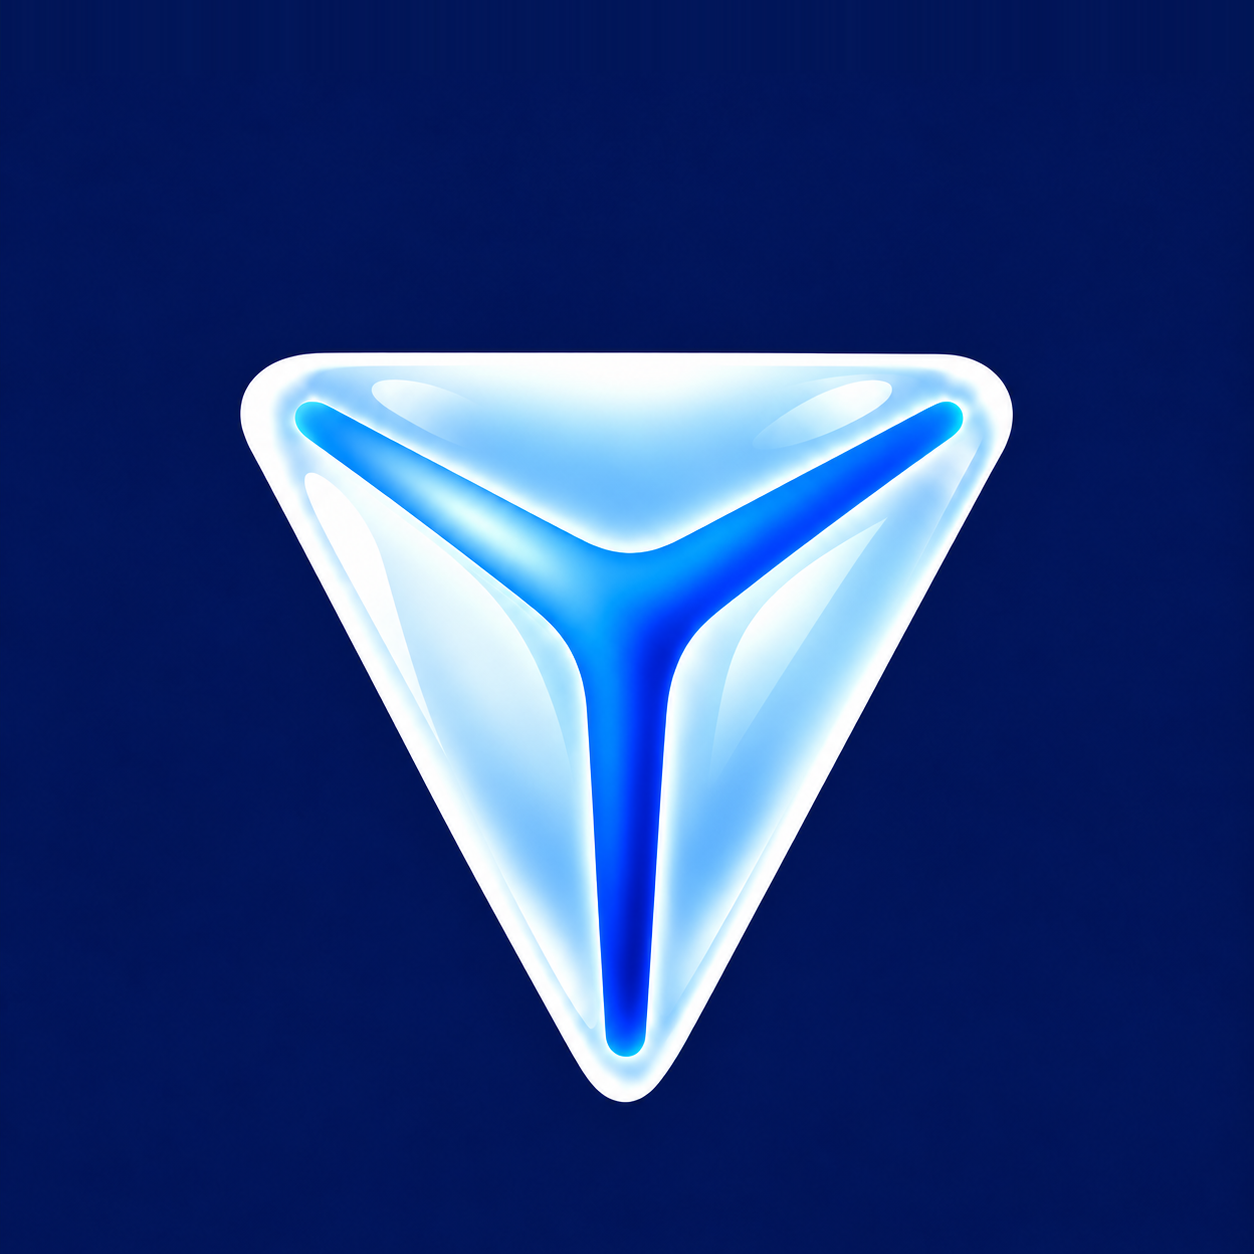
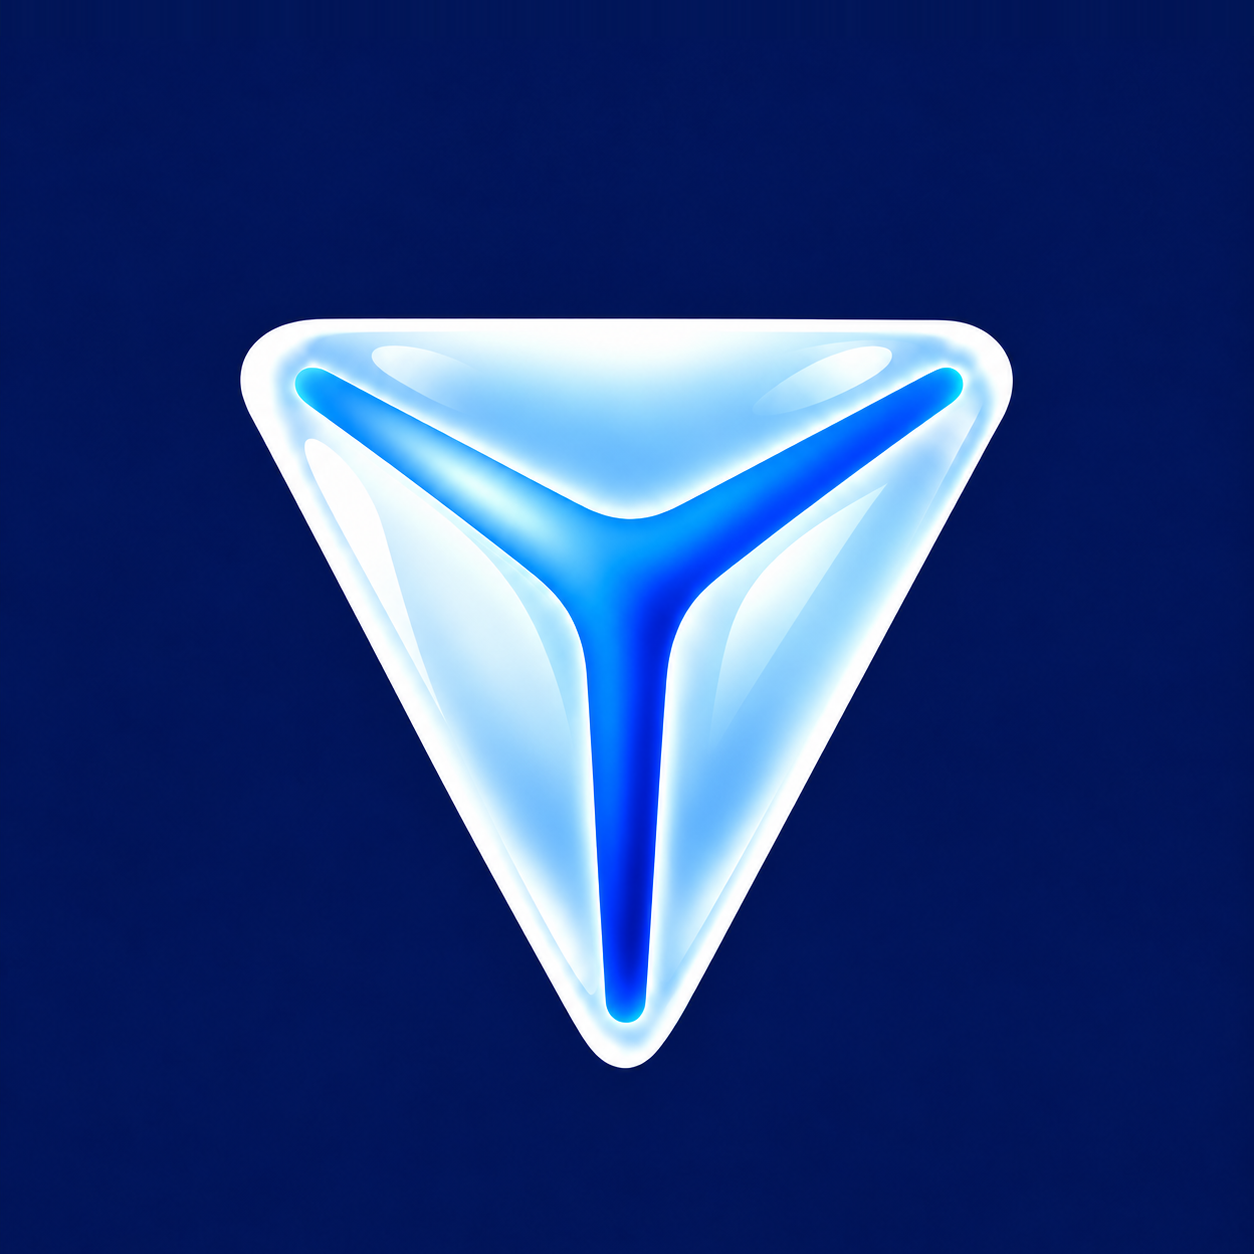
Иконка Deepal Tools: сдвиг вниз 35 px

Changed region(s): [[0.1866, 0.2488, 0.8086, 0.9019], [0.5287, 0.622, 0.5598, 0.6531]]

diff --git a/donate/index.html b/donate/index.html
@@ -12,12 +12,12 @@
 <meta property="og:site_name" content="Deepal Tools">
 <meta property="og:url" content="https://deepaltools.github.io/donate/">
 <!-- Широкая обложка 1200×630: с ней Telegram и другие показывают большое превью ссылки. -->
-<meta property="og:image" content="https://deepaltools.github.io/assets/preview-donate.png?v=3">
+<meta property="og:image" content="https://deepaltools.github.io/assets/preview-donate.png?v=4">
 <meta property="og:image:width" content="1200">
 <meta property="og:image:height" content="630">
 <meta name="twitter:card" content="summary_large_image">
-<link rel="icon" href="../assets/deepal-tools.png?v=3">
-<link rel="apple-touch-icon" href="../assets/deepal-tools.png?v=3">
+<link rel="icon" href="../assets/deepal-tools.png?v=4">
+<link rel="apple-touch-icon" href="../assets/deepal-tools.png?v=4">
 <link rel="preconnect" href="https://fonts.googleapis.com">
 <link rel="preconnect" href="https://fonts.gstatic.com" crossorigin>
 <link href="https://fonts.googleapis.com/css2?family=Inter:wght@400;500;600;700&family=Unbounded:wght@500;700&display=swap" rel="stylesheet">
@@ -265,7 +265,7 @@
 </head>
 <body>
 <main>
-  <img class="mark" src="../assets/deepal-tools.png?v=3" alt="Deepal Tools" width="300" height="300">
+  <img class="mark" src="../assets/deepal-tools.png?v=4" alt="Deepal Tools" width="300" height="300">
 
   <h1>Поддержать Deepal&nbsp;Tools</h1>
   <p class="lede">Все приложения бесплатные. Если они вам пригодились, выберите, как поддержать проект.</p>

diff --git a/index.html b/index.html
@@ -12,12 +12,12 @@
 <meta property="og:site_name" content="Deepal Tools">
 <meta property="og:url" content="https://deepaltools.github.io/">
 <!-- Широкая обложка 1200×630: с ней Telegram и другие показывают большое превью ссылки. -->
-<meta property="og:image" content="https://deepaltools.github.io/assets/preview.png?v=3">
+<meta property="og:image" content="https://deepaltools.github.io/assets/preview.png?v=4">
 <meta property="og:image:width" content="1200">
 <meta property="og:image:height" content="630">
 <meta name="twitter:card" content="summary_large_image">
-<link rel="icon" href="assets/deepal-tools.png?v=3">
-<link rel="apple-touch-icon" href="assets/deepal-tools.png?v=3">
+<link rel="icon" href="assets/deepal-tools.png?v=4">
+<link rel="apple-touch-icon" href="assets/deepal-tools.png?v=4">
 <link rel="preconnect" href="https://fonts.googleapis.com">
 <link rel="preconnect" href="https://fonts.gstatic.com" crossorigin>
 <link href="https://fonts.googleapis.com/css2?family=Inter:wght@400;500;600;700&family=Unbounded:wght@500;700&display=swap" rel="stylesheet">
@@ -260,7 +260,7 @@
 </head>
 <body>
 <main>
-  <img class="mark" src="assets/deepal-tools.png?v=3" alt="Deepal Tools" width="300" height="300">
+  <img class="mark" src="assets/deepal-tools.png?v=4" alt="Deepal Tools" width="300" height="300">
 
   <h1>Deepal&nbsp;Tools</h1>
   <p class="lede">Бесплатные приложения для Deepal</p>
